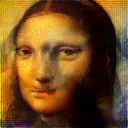
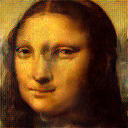
update optimization

diff --git a/optimization/fast_stable_texture_transfer_localgram.py b/optimization/fast_stable_texture_transfer_localgram.py
@@ -184,9 +184,11 @@ def gram_matrix(y):
     local_ch = ch // 2 #if ch < 64 else 64
     local_wh = w*h
   
-    gram = torch.Tensor(ch-local_ch+1, local_ch, local_ch).to(device)
-    for i in range(ch-local_ch+1):
-        features = y[0][i:i+local_ch].view(local_ch, local_wh)
+    gram = torch.Tensor(ch, local_ch, local_ch).to(device)
+    for i in range(ch):
+        indices = [x%ch for x in range(i,i+local_ch)]        
+        #features = y[0][i:(i+local_ch)].view(local_ch, local_wh)
+        features = y[0,indices].view(local_ch, local_wh)
         features_t = features.transpose(1, 0)
         gram[i] = torch.mm(features, features_t)#.div(local_ch*w*h)
     return gram.div(b * local_ch * w * h)
